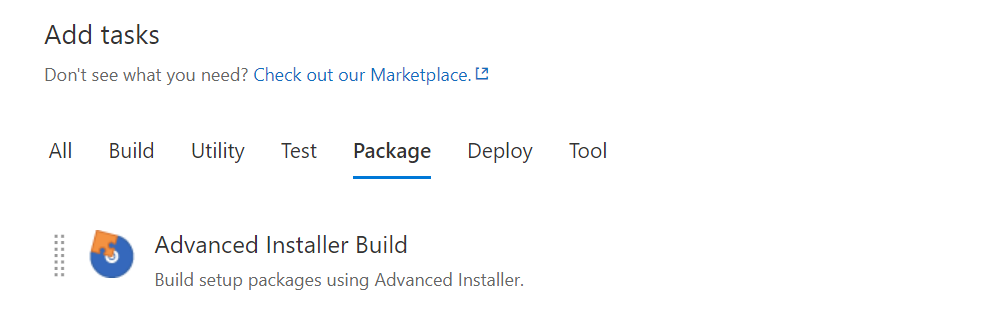
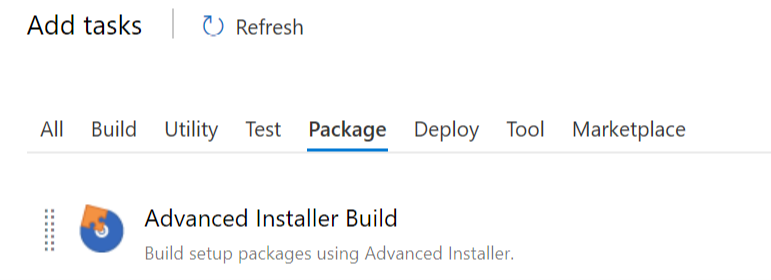
Updated marketplace descriptions
* Updated README.md
* Updated images

diff --git a/README.md b/README.md
@@ -2,23 +2,46 @@
 
 Businesses around the globe, large and small, save hundreds of hours and thousands of dollars by taking advantage of the expert knowledge built into Advanced Installer to create Windows Installer packages and patches for their products.
 
-# Requirements
-
-This plugin requires [Advanced Installer](http://www.advancedinstaller.com/) to perform the build. Depending on your platform, there are several deployment options:
-* Team Services 
-  - Use [Advanced Installer Tool Installer](https://marketplace.visualstudio.com/items?itemName=caphyon.AdvancedInstallerTool)
-* Team Foundation Server 
-  +  Use [Advanced Installer Tool Installer](https://marketplace.visualstudio.com/items?itemName=caphyon.AdvancedInstallerTool). This support is available beginning with TFS 2018.
-  + Manually [download](http://www.advancedinstaller.com/download.html) and install Advanced Installer on the build host machine. 
-
 # How to use 
 
-The AI Build Task allows you to create a custom build step for TFS and VSTS.
+The AI Build Task allows you to create a custom build step for TFS and Azure DevOPs.
 
-![Add Tool](images/tool-add.png)
+## Step 1 - Add Task
+
+The **Advanced Installer Build** task is located under the **Package** category.
 
 ![Add Task](images/task-add.png)
 
-![Configure Tool Installer](images/tool-configure.png)
+## Step 2 - Configure Task
 
-![Configure Build Task](images/task-configure.png)
+### Build Group
+
+![Configure Build](images/task-configure-build.png)
+
+* **Project** - The AIP project to be built. All resources needed by the project file must be added to the repository, relative to the AIP.
+
+* **Build** - Configure which build from the AIP to be performed. If none is specified **all** will be executed.
+
+### Advanced Build Settings Group
+
+![Configure Advanced Build](images/task-configure-advanced-build.png)
+
+Advanced configurations for build output.
+
+* **Output Package Name** - The name of the result package.
+
+* **Output Package Folder** - The location of the result package.
+
+* **Command Line Arguments** - Additional edit commands to be performed. The changes are volatile and apply only to the current build. The AIP project file will not be modified. [Here](https://www.advancedinstaller.com/user-guide/command-line-editing.html) you can find a complete list.
+
+* **Do not digitally sign package** - Disables digital signature for the current build. You might use this when creating debug packages.
+
+### Advanced Installer Tool Group
+
+![Configure Tool](images/task-configure-tool.png)
+
+Details about which version of Advanced Installer should be downloaded and cached on the build agent.
+
+* **Version** - Version that should be cached. You can find a complete list [here](https://www.advancedinstaller.com/version-history.html). If no version is specified the latest will be used. This step will be skipped if a manual installation is detected. Such may be the case in TFS environments where you may want to use a pre-configure build agent.
+
+* **License Key** - The license id that should be used for registration. **Simple** project types don't require a license.
